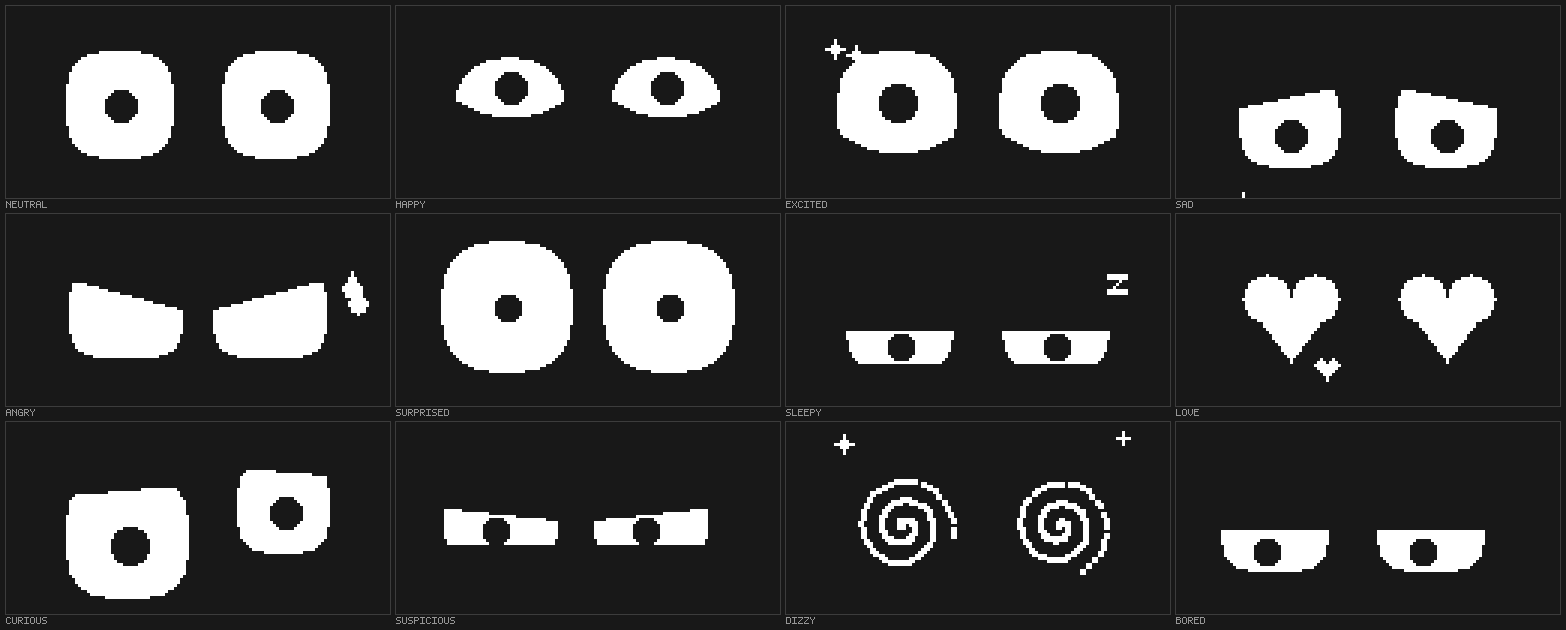
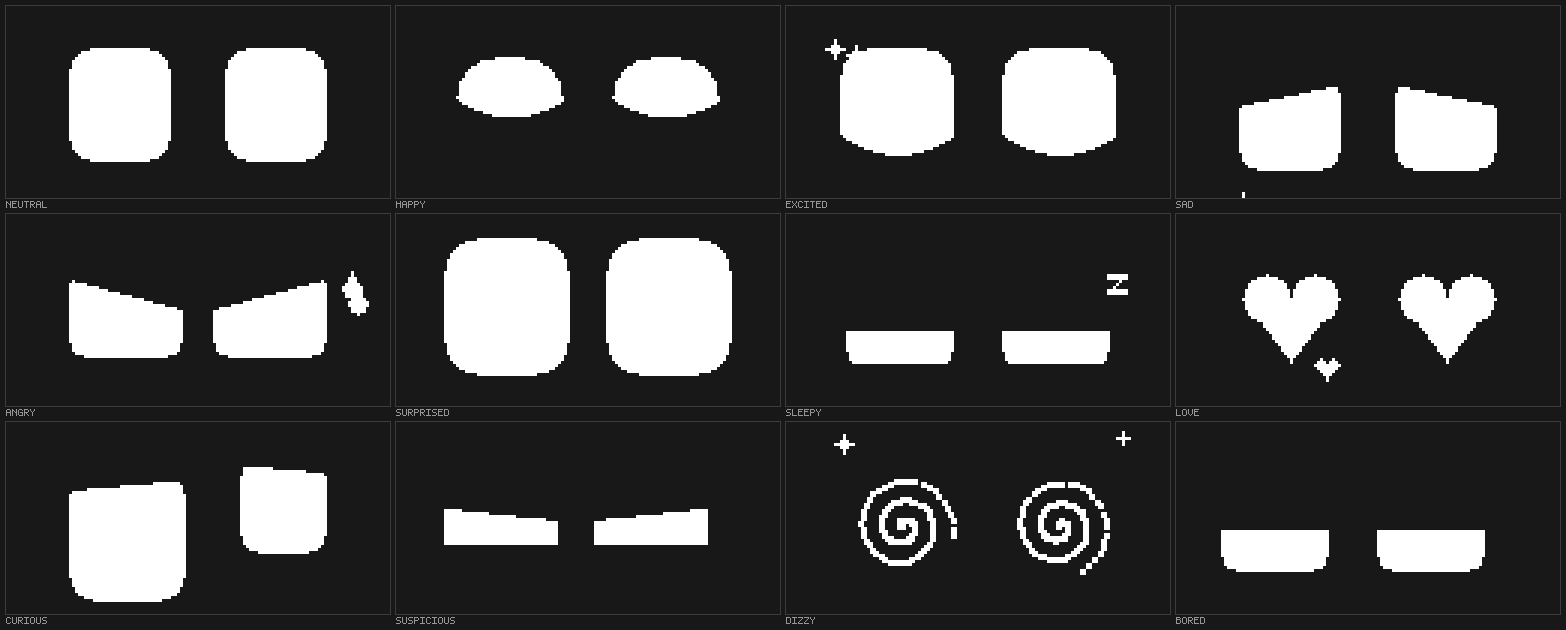
Back to EMO's eyes: squared rounded rects, no pupils
Corner radius drops across the whole expression table (neutral 11 -> 7,
the rest in proportion) and the resting eye is now slightly taller than
wide, 34x38, which is the EMO silhouette. Pupils default to 0 - the
option stays in the pose table for anyone who wants them, but the face
ships solid. Previews and GIF regenerated.

Claude-Session: https://claude.ai/code/session_01Uzmr89698vnAwyPFW652Cr

diff --git a/src/Face.cpp b/src/Face.cpp
@@ -23,10 +23,10 @@ bool ciEqual(const char* a, const char* b) {
 }
 
 void defaults(Pose& p) {
-  p.w = 36.0f;  p.h = 36.0f;  p.radius = 11.0f;  p.spacing = 52.0f;
+  p.w = 34.0f;  p.h = 38.0f;  p.radius = 7.0f;  p.spacing = 52.0f;
   p.lidTop = 0.0f;  p.lidBot = 0.0f;  p.slant = 0.0f;  p.arc = 0.0f;
   p.offY = 0.0f;  p.tilt = 0.0f;  p.scaleL = 1.0f;  p.scaleR = 1.0f;
-  p.gazeX = 0.0f;  p.gazeY = 0.0f;  p.pupil = 1.0f;  p.bob = 1.2f;
+  p.gazeX = 0.0f;  p.gazeY = 0.0f;  p.pupil = 0.0f;  p.bob = 1.2f;
   p.style = STYLE_EYES;
 }
 
@@ -54,34 +54,33 @@ void poseFor(Emotion e, Pose& p) {
       break;
 
     case EMOTION_HAPPY:              // eyes squeeze up into two happy domes
-      p.w = 38.0f; p.h = 34.0f; p.radius = 16.0f; p.arc = 0.42f;
+      p.w = 36.0f; p.h = 34.0f; p.radius = 13.0f; p.arc = 0.42f;
       p.bob = 1.7f;
       break;
 
     case EMOTION_EXCITED:            // big, wide, bouncing
-      p.w = 40.0f; p.h = 40.0f; p.radius = 14.0f; p.spacing = 54.0f;
+      p.w = 38.0f; p.h = 42.0f; p.radius = 9.0f; p.spacing = 54.0f;
       p.arc = 0.16f; p.bob = 2.8f;
       break;
 
     case EMOTION_SAD:                // inner brows up, looking at the floor
-      p.w = 34.0f; p.h = 30.0f; p.radius = 10.0f;
+      p.w = 34.0f; p.h = 32.0f; p.radius = 6.0f;
       p.slant = -7.0f; p.lidTop = 0.22f; p.offY = 4.0f; p.gazeY = 0.30f;
       p.bob = 0.8f;
       break;
 
     case EMOTION_ANGRY:              // brows jammed down towards the nose
-      p.w = 38.0f; p.h = 30.0f; p.radius = 8.0f; p.spacing = 48.0f;
+      p.w = 38.0f; p.h = 30.0f; p.radius = 5.0f; p.spacing = 48.0f;
       p.slant = 10.0f; p.lidTop = 0.30f; p.bob = 1.0f;
-      p.pupil = 0.0f;                // solid glare reads angrier
       break;
 
     case EMOTION_SURPRISED:          // wide open
-      p.w = 44.0f; p.h = 44.0f; p.radius = 16.0f; p.spacing = 54.0f;
-      p.offY = -1.0f; p.pupil = 0.55f; p.bob = 0.5f;  // tiny pupils = shock
+      p.w = 42.0f; p.h = 46.0f; p.radius = 11.0f; p.spacing = 54.0f;
+      p.offY = -1.0f; p.bob = 0.5f;
       break;
 
     case EMOTION_SLEEPY:             // heavy lids
-      p.w = 36.0f; p.h = 30.0f; p.radius = 10.0f;
+      p.w = 36.0f; p.h = 30.0f; p.radius = 6.0f;
       p.lidTop = 0.56f; p.lidBot = 0.08f; p.offY = 4.0f; p.bob = 0.6f;
       break;
 
@@ -95,7 +94,7 @@ void poseFor(Emotion e, Pose& p) {
       break;
 
     case EMOTION_SUSPICIOUS:         // narrowed, side-eye
-      p.w = 38.0f; p.h = 26.0f; p.radius = 7.0f; p.spacing = 50.0f;
+      p.w = 38.0f; p.h = 26.0f; p.radius = 4.0f; p.spacing = 50.0f;
       p.lidTop = 0.42f; p.lidBot = 0.18f; p.slant = 4.0f; p.gazeX = -0.40f;
       p.bob = 0.7f;
       break;
@@ -105,7 +104,7 @@ void poseFor(Emotion e, Pose& p) {
       break;
 
     case EMOTION_BORED:              // half-lidded, staring off sideways
-      p.w = 36.0f; p.h = 26.0f; p.radius = 9.0f;
+      p.w = 36.0f; p.h = 26.0f; p.radius = 5.0f;
       p.lidTop = 0.45f; p.offY = 3.0f; p.gazeX = -0.5f; p.gazeY = 0.2f;
       p.bob = 0.7f;
       break;

diff --git a/docs/TUNING.md b/docs/TUNING.md
@@ -19,7 +19,7 @@ emotion, each filling in a `Pose`:
 | `tilt` | pixels; left eye down, right eye up. Reads as a head tilt |
 | `scaleL`, `scaleR` | per-eye size multiplier. Asymmetry reads as curiosity |
 | `gazeX`, `gazeY` | resting gaze, `-1..1` |
-| `pupil` | `0..1` pupil size. It sits in whatever band of the eye the lids leave visible and slides with the gaze; `0` for a solid glare (angry) |
+| `pupil` | `0..1` pupil size, **0 by default** - the EMO look is solid eyes. Set it and a pupil appears in whatever band of the eye the lids leave visible, sliding with the gaze |
 | `bob` | idle breathing amplitude in pixels |
 | `style` | `STYLE_EYES`, `STYLE_HEART` or `STYLE_SPIRAL` |
 
